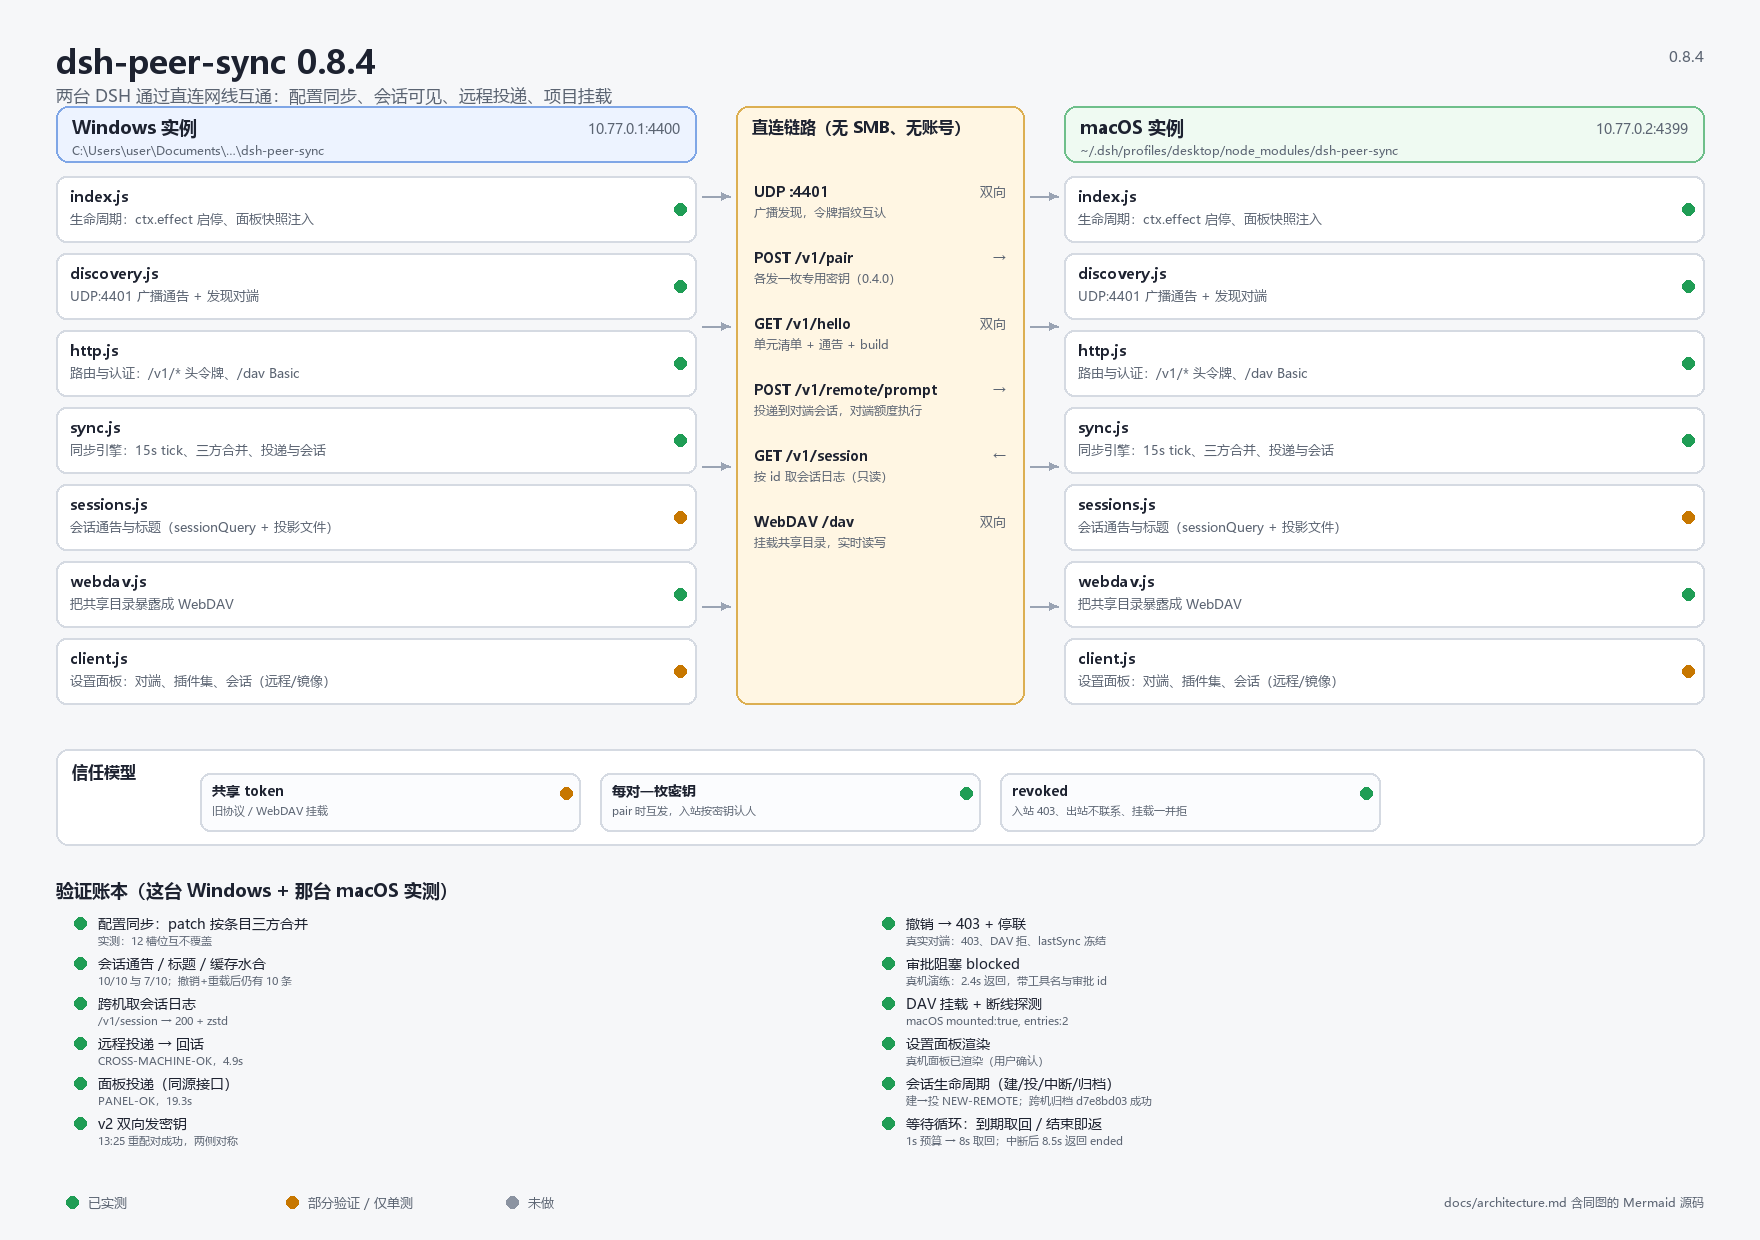
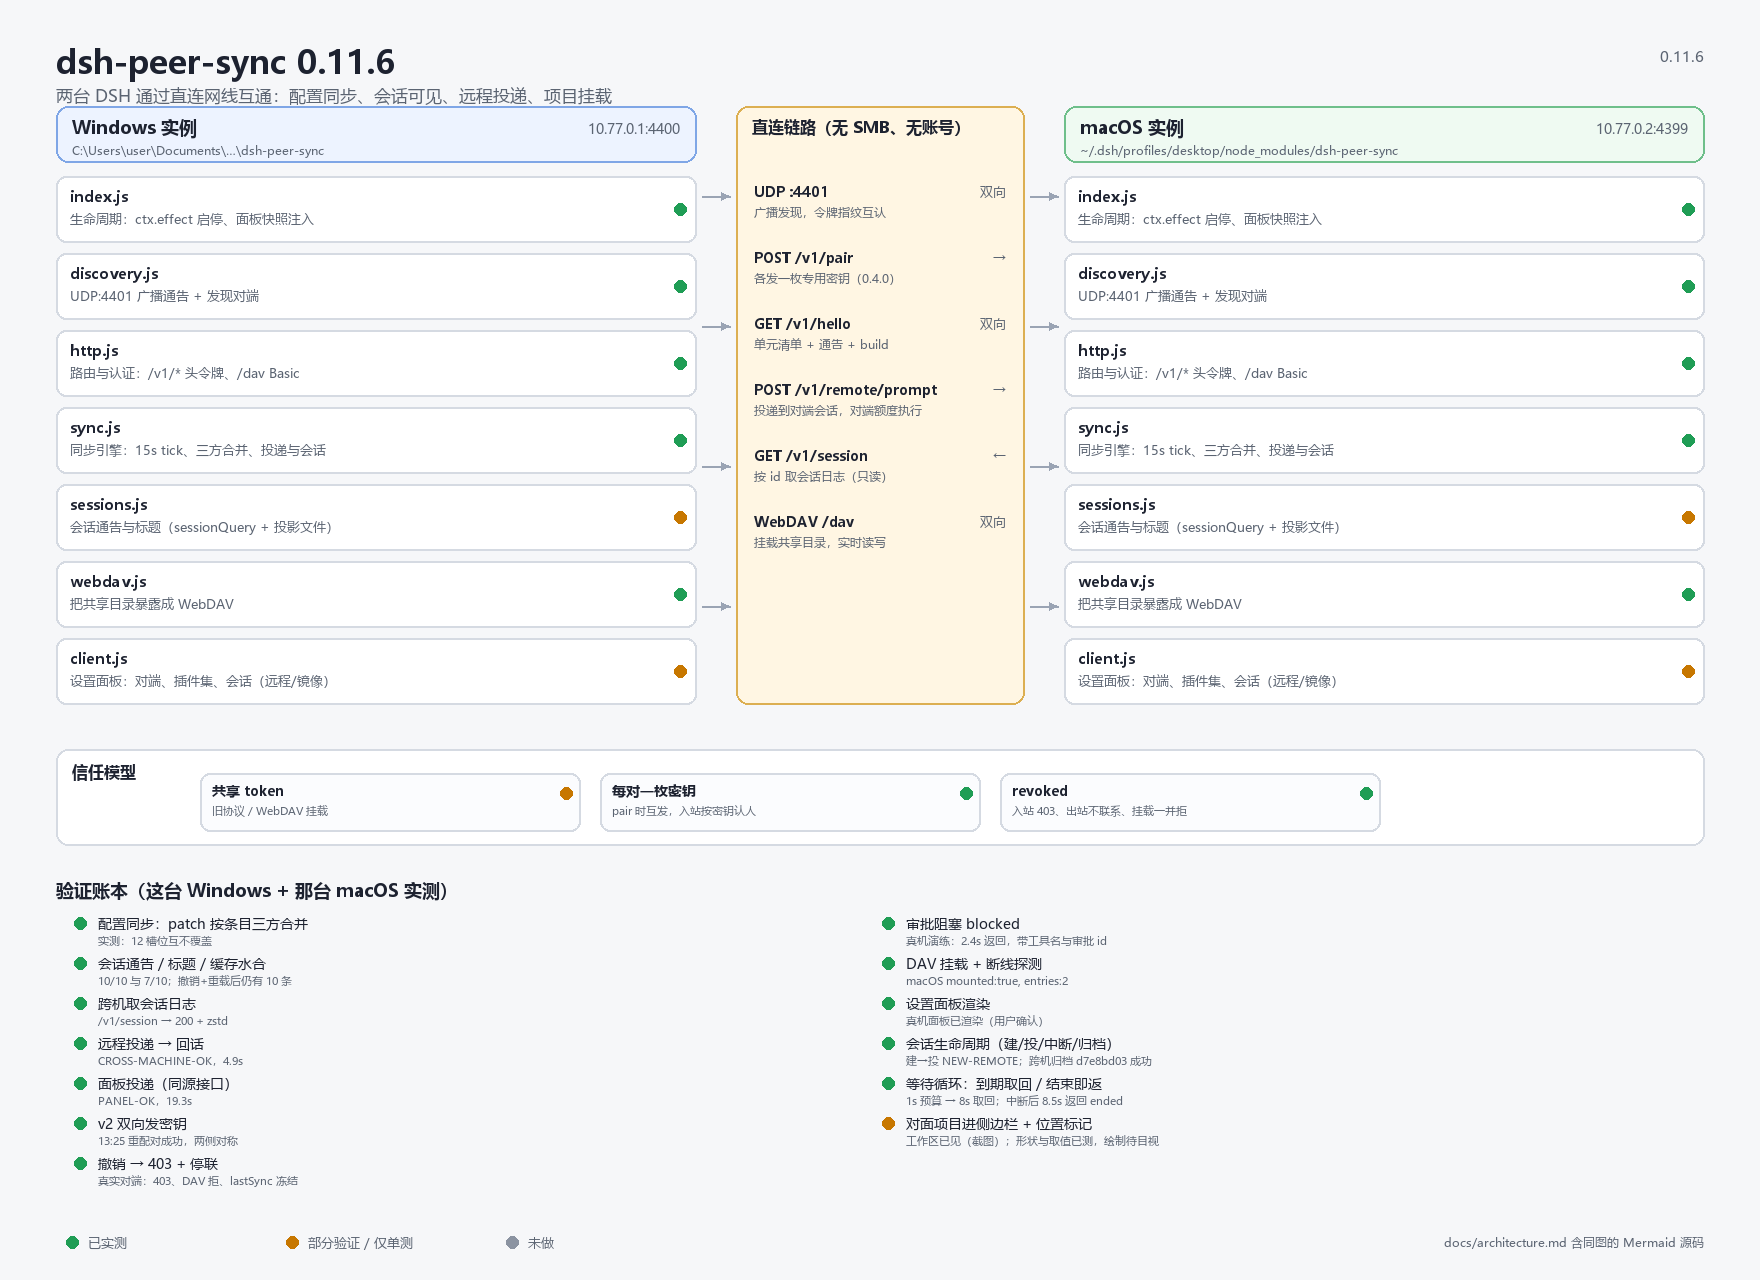
Draw the marker instead of typing it, after an emoji rendered as a box
The architecture figure printed '🍎/💻' as two empty boxes in this font family, which is the same failure a sidebar could show: an emoji without a glyph is a tofu box, and a box is worse than no marker because it looks like content. Both shapes are now inline SVG — a cloud for the peer, a monitor for this machine — so the font cannot decide whether the marker exists. The hover card keeps the words, with the emoji removed for the same reason.

The stand-in render now resolves component elements and asserts the title text, the presence of an svg element, and that the two shapes differ, since a wrong shape is invisible to a string comparison.

diff --git a/client.js b/client.js
@@ -877,6 +877,32 @@ window.__ModuleLoader__.load({
           return promise
         }
 
+        // Drawn rather than typed: an emoji in a font without its glyph becomes a
+        // tofu box, which the architecture figure showed happening in this very
+        // font family. Two 12px shapes cannot fail that way.
+        function PlaceIcon(props) {
+          const peer = props.peer
+          return h(
+            'svg',
+            {
+              width: 12,
+              height: 12,
+              viewBox: '0 0 12 12',
+              'aria-hidden': true,
+              style: { display: 'inline-block', verticalAlign: 'middle', color: 'currentColor' },
+            },
+            peer
+              ? h('path', {
+                  d: 'M3.3 9.5h5.5a2.2 2.2 0 0 0 .15-4.4 2.9 2.9 0 0 0-5.5-.7A2.3 2.3 0 0 0 3.3 9.5z',
+                  fill: 'currentColor',
+                })
+              : [
+                  h('rect', { key: 'screen', x: 1.6, y: 2, width: 8.8, height: 6, rx: 1, fill: 'none', stroke: 'currentColor', strokeWidth: 1.2 }),
+                  h('rect', { key: 'base', x: 4.4, y: 8.8, width: 3.2, height: 1.2, rx: 0.6, fill: 'currentColor' }),
+                ],
+          )
+        }
+
         function SessionPlace(props) {
           const sessionId = props && props.sessionId ? props.sessionId : null
           const [place, setPlace] = useState(null)
@@ -906,7 +932,7 @@ window.__ModuleLoader__.load({
                 cursor: 'default',
               },
             },
-            peer ? '🍎' : '💻',
+            h(PlaceIcon, { peer }),
           )
         }
 
@@ -930,8 +956,8 @@ window.__ModuleLoader__.load({
             'div',
             { style: S.hint },
             peer
-              ? L('🍎 文件在对端（通过挂载）', '🍎 files on the peer, through a mount')
-              : L('💻 文件在本机', '💻 files on this computer'),
+              ? L('文件在对端（通过挂载）', 'files on the peer, through a mount')
+              : L('文件在本机', 'files on this computer'),
           )
         }
 

diff --git a/docs/render-architecture.py b/docs/render-architecture.py
@@ -17,7 +17,7 @@ ROOT = os.path.dirname(os.path.dirname(os.path.abspath(__file__)))
 with open(os.path.join(ROOT, "package.json"), encoding="utf-8") as handle:
     VERSION = json.load(handle)["version"]
 
-W, H = 1760, 1240
+W, H = 1760, 1280
 BG = "#F6F7F9"
 INK = "#1D2230"
 MUTED = "#5B6472"
@@ -160,13 +160,15 @@ ROWS = [
     ("设置面板渲染", "真机面板已渲染（用户确认）", DONE),
     ("会话生命周期（建/投/中断/归档）", "建→投 NEW-REMOTE；跨机归档 d7e8bd03 成功", DONE),
     ("等待循环：到期取回 / 结束即返", "1s 预算 → 8s 取回；中断后 8.5s 返回 ended", DONE),
+    ("对面项目进侧边栏 + 位置标记", "工作区已见（截图）；形状与取值已测，绘制待目视", PARTIAL),
 ]
 
 col_x = [72, 72 + (W - 144) // 2]
 row_h = 40
+per_col = (len(ROWS) + 1) // 2
 for i, (name, note, color) in enumerate(ROWS):
-    cx = col_x[0] if i < 6 else col_x[1]
-    ry = LY + 34 + (i % 6) * row_h
+    cx = col_x[0] if i < per_col else col_x[1]
+    ry = LY + 34 + (i % per_col) * row_h
     dot(cx + 8, ry + 12, color, r=6)
     text(cx + 26, ry + 3, name, 14, INK)
     text(cx + 26, ry + 22, note, 11, MUTED)

diff --git a/README.md b/README.md
@@ -236,12 +236,16 @@ remote workspace registered: Z:\ds as "ds · mac-lan"
 
 侧边栏随即多出这一项，点开就是她那台的项目目录。
 
-### 会话行前面的 🍎 / 💻
+### 会话行前面的位置标记
 
-工作区行没有可注入的插槽，但**会话行**有：`sidebar.session.row.leading`（标题前那个 16px 格）。插件在那里放一个字符：
+工作区行没有可注入的插槽，但**会话行**有：`sidebar.session.row.leading`（标题前那个 16px 格）。插件在那里画一个小图标：
 
-- 🍎 这个会话的文件在**对端**（路径落在 `mounts[].local` 之下）
-- 💻 文件在**本机**
+- 云朵形状 —— 这个会话的文件在**对端**（属于对面挂载注册的工作区，或 cwd 落在 `mounts[].local` 之下）
+- 显示器形状 —— 文件在**本机**
+
+图标是**内联 SVG 画的，不是 emoji**。原因很实在：生成架构图时，`🍎/💻` 在这套字体里渲染成了两个方框（`+ □/□ 标记`）——字体缺字形时 emoji 就是豆腐块，比"没有标记"更容易误读。两个 12px 的图形不会这样失败。
+
+同一事实在悬浮卡（`sidebar.session.row.hover`）里有纯文字版：「文件在对端（通过挂载）」/「文件在本机」。16px 的格子容易被忽略，文字版不依赖字号。
 
 判定在宿主侧完成，随快照下发为 `sessionPlaces: { [sessionId]: 'local' | 'peer' }`。插槽传给组件的 props 只有 `sessionId` 和几个 hooks（探针实测：`renderFactorySlot, sessionId, useXxx…`），所以客户端只查表，不猜、也不逐行发请求。
 
@@ -251,11 +255,11 @@ remote workspace registered: Z:\ds as "ds · mac-lan"
 2. `create()` 对**已存在**的路径**不返回 id**，要用 `resolveByPath` 补；
 3. 解码出来的 UNC 会**少一个前导斜杠**（`\\host\share` → `/host/share`），所以所有路径比较先过 `slashKey`（反斜杠归一、折叠重复斜杠、去尾斜杠）。
 
-只看第 1 条，就会把"在对面工作区里正常创建的会话"标成本机 💻 —— 这是实际发生过的错误，而且只有盯着侧边栏看才发现。
+只看第 1 条，就会把"在对面工作区里正常创建的会话"标成本机 —— 这是实际发生过的错误，而且只有盯着侧边栏看才发现。
 
-设置面板里也有一节「来自对端的项目」，列出注册了哪些、各挂几个会话、路径当前是否可达（挂载断了会变红）。
+设置面板里也有一节「来自对端的项目」，列出注册了哪些、各挂几个会话、路径当前是否可达（挂载断了会变红），带一个「重新扫描挂载」按钮。
 
-觉得列表太吵的话，把 `client.js` 里 `peer ? '🍎' : '💻'` 的 `local` 分支改成 `null`，就只标对端。
+觉得列表太吵的话，把 `client.js` 里 `SessionPlace` 的 `local` 分支改成 `return null`，就只标对端。
 
 ## 版本与冲突
 
